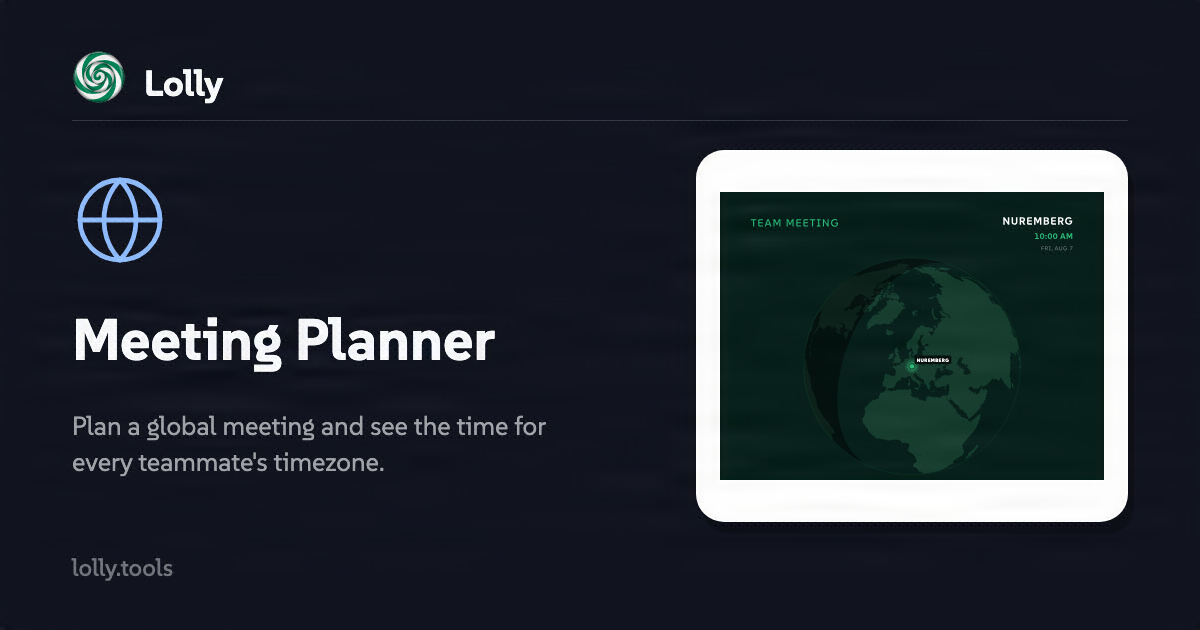
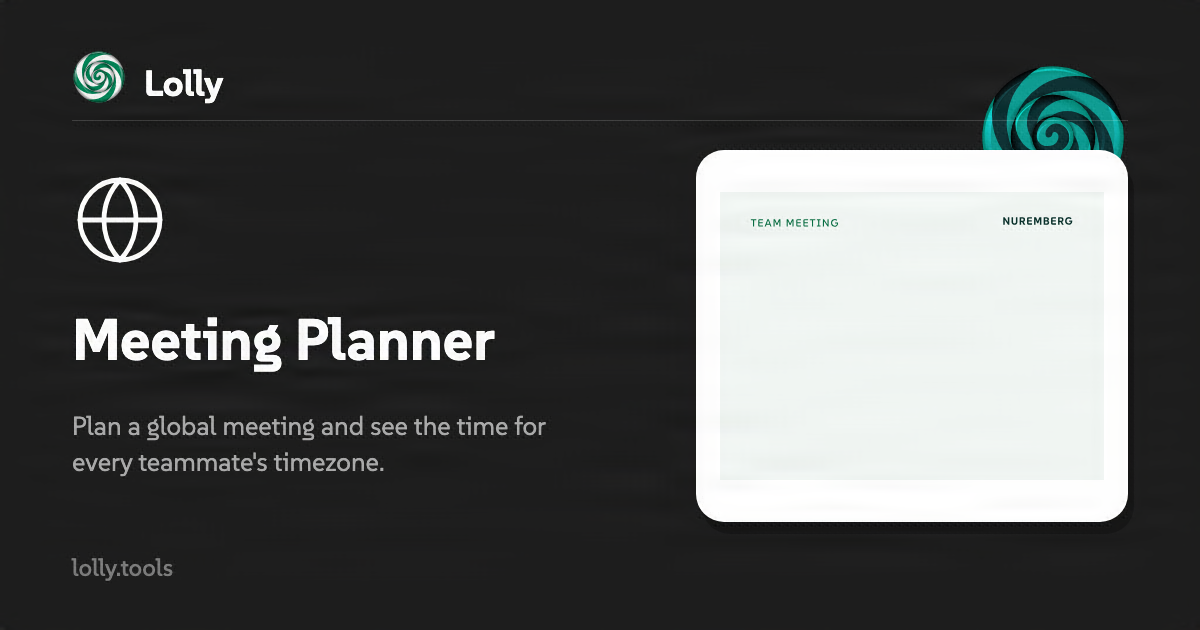
Components library for outside developers: reference blocks (import, classes, markup, tokens, copy), reader copy, live Design-workspace and slider specimens; colour field opens the Colour Lab in OKLCH while HSL is the everyday default; negative letter-spacing removed from the chrome sheets; five SUS

diff --git a/tests/tauri-security.test.ts b/tests/tauri-security.test.ts
@@ -10,24 +10,32 @@ function json(path: string): Record<string, unknown> {
   return JSON.parse(readFileSync(new URL(path, ROOT), 'utf8')) as Record<string, unknown>;
 }
 
-test('packaged Tauri shells enforce a non-null CSP with IPC and deny-by-default directives', () => {
+test('packaged Tauri shells enforce a non-null CSP with IPC and deny-by-default directives', async () => {
+  // The policy is a <meta> tag written into the built index.html by
+  // shells/tauri-shared/vite-csp.mjs, NOT tauri.conf.json's app.security.csp: with
+  // that key set, Tauri's codegen re-serialises every .html asset - the signed tool
+  // templates included - and no tool loads under a release build's verified-only
+  // trust mode (tests/tauri-csp.test.ts pins the config side). frame-ancestors is
+  // absent on purpose: a <meta> policy cannot carry it and a WebView has no ancestor.
+  const { TAURI_CSP } = await import('../shells/tauri-shared/vite-csp.mjs') as { TAURI_CSP: string };
+  assert.equal(typeof TAURI_CSP, 'string', 'the shells share one packaged CSP');
+  for (const source of [
+    "default-src 'self'",
+    'connect-src',
+    'ipc:',
+    'http://ipc.localhost',
+    "object-src 'none'",
+    "base-uri 'none'",
+    "form-action 'none'",
+  ]) {
+    assert.ok(TAURI_CSP.includes(source), `packaged CSP contains ${source}`);
+  }
+  assert.doesNotMatch(TAURI_CSP, /\shttp:(?:\s|;)/, 'packaged CSP does not allow arbitrary cleartext HTTP');
   for (const shell of shells) {
     const conf = json(`shells/${shell}/src-tauri/tauri.conf.json`);
-    const security = (conf.app as { security: { csp: string; devCsp: string } }).security;
-    assert.equal(typeof security.csp, 'string', `${shell} has a packaged CSP`);
-    for (const source of [
-      "default-src 'self'",
-      'connect-src',
-      'ipc:',
-      'http://ipc.localhost',
-      "object-src 'none'",
-      "base-uri 'none'",
-      "frame-ancestors 'none'",
-    ]) {
-      assert.ok(security.csp.includes(source), `${shell} CSP contains ${source}`);
-    }
-    assert.doesNotMatch(security.csp, /\shttp:(?:\s|;)/, `${shell} packaged CSP does not allow arbitrary cleartext HTTP`);
-    assert.equal(typeof security.devCsp, 'string', `${shell} declares its broader development CSP explicitly`);
+    const security = (conf.app as { security: { csp: unknown; devCsp: unknown } }).security;
+    assert.equal(security.csp ?? null, null, `${shell} leaves app.security.csp null so codegen serves every asset byte-exact`);
+    assert.equal(security.devCsp ?? null, null, `${shell} leaves app.security.devCsp null for the same reason`);
   }
 });
 

diff --git a/tests/instance-pack.test.ts b/tests/instance-pack.test.ts
@@ -77,7 +77,9 @@ test('the suse pack builds clean: exclusions hold, fonts/tools/envelope complete
     // A FLOOR, not a pin: the pack's own tool set shrinks whenever a SUSE tool
     // graduates into the brand-agnostic community pack, and that is a good move,
     // not a regression. What must never happen is the pack shipping a handful.
-    assert.ok(toolsPart.tools.length >= 15, `expected ≥15 suse tools, got ${toolsPart.tools.length}`);
+    // 13 since 2026-09-06: battlecards, pricing-table, meeting-planner, org-chart and
+    // work-avatar left for the community pack (they carry no SUSE-only content).
+    assert.ok(toolsPart.tools.length >= 13, `expected ≥13 suse tools, got ${toolsPart.tools.length}`);
     for (const t of toolsPart.tools) {
       assert.ok(files[`tools/${t.id}/tool.json`], `tool ${t.id} shipped without its manifest`);
     }
@@ -125,8 +127,17 @@ test('builder format constants match the brand-transfer reader (drift guard)', (
     assert.ok(m, `${name} not found`);
     return m![1]!.trim();
   };
-  for (const name of ['BRAND_FORMAT', 'BRAND_FORMAT_VERSION', 'BRAND_READER_VERSION']) {
+  for (const name of ['BRAND_FORMAT', 'BRAND_FORMAT_VERSION']) {
     assert.equal(grab(script, `const ${name}`), grab(reader, `export const ${name}`),
       `${name} drifted between scripts/build-instance-pack.ts and brand-transfer.ts`);
   }
+  // The builder's BRAND_READER_VERSION is the MIN reader a pack it writes requires;
+  // the app's is the newest format it can read. They part ways whenever the reader
+  // learns a format the pack builder does not emit (reader 2 imports format-4
+  // collections; instance packs stay readable by reader 1), so the guard is that a
+  // pack never demands a reader newer than the app ships.
+  const needs = Number(grab(script, 'const BRAND_READER_VERSION'));
+  const reads = Number(grab(reader, 'export const BRAND_READER_VERSION'));
+  assert.ok(Number.isInteger(needs) && Number.isInteger(reads), 'reader versions are integers');
+  assert.ok(needs <= reads, `a pack would demand reader ${needs} but the app reads up to ${reads}`);
 });

diff --git a/tests/native-file-associations.test.ts b/tests/native-file-associations.test.ts
@@ -312,7 +312,12 @@ test('Android VIEW documents and iOS opened files reach the universal importer i
   assert.match(iosPlist, /<key>CFBundleTypeRole<\/key>\s*<string>Editor<\/string>/);
   assert.match(iosPlist, /<key>LSHandlerRank<\/key>\s*<string>Owner<\/string>/);
   assert.match(iosPlist, /<string>tools\.lolly\.pack<\/string>/);
-  assert.match(iosPlist, /<string>Document Lolly can open<\/string>[\s\S]*?<string>Alternate<\/string>/);
+  // `tauri ios build` regenerates this plist from tauri.conf.json's fileAssociations:
+  // one CFBundleDocumentTypes entry per format, each an Alternate-rank handler, with
+  // the Lolly bundle alone as Owner. The old hand-kept "Document Lolly can open"
+  // umbrella entry only survives in project.yml, checked below.
+  assert.match(iosPlist, /<string>Penpot project<\/string>[\s\S]*?<string>Alternate<\/string>/);
+  assert.equal((iosPlist.match(/<string>Owner<\/string>/g) ?? []).length, 1, 'exactly one Owner-rank type: the Lolly bundle');
 
   const appleProject = readFileSync(path.join(MOBILE, 'src-tauri/gen/apple/project.yml'), 'utf8');
   assert.match(appleProject, /CFBundleTypeExtensions: \[lolly\]/);

diff --git a/tests/recording-captions.test.ts b/tests/recording-captions.test.ts
@@ -305,9 +305,9 @@ test('every wired tool still mounts and renders - defaults and each example', {
 // wire the declaration in the same edit.
 
 test('voice-recorder has no asset input for its take, so it declares no transcribe', {
-  skip: HAS_SUSE ? false : 'suse pack not mounted',
+  skip: HAS_COMMUNITY ? false : 'community pack not mounted',
 }, async () => {
-  const tool = await load('voice-recorder', SUSE, suseFile);
+  const tool = await load('voice-recorder', COMMUNITY, communityFile);
   assert.equal(tool.manifest.render.transcribe, undefined);
   const assets = (tool.manifest.inputs ?? []).filter((i) => i.type === 'asset');
   assert.deepEqual(assets, [],

diff --git a/scripts/build-app-icons.ts b/scripts/build-app-icons.ts
@@ -170,6 +170,8 @@ async function main(): Promise<void> {
   // ── Serve the signed SVG itself - a byte copy, so its C2PA + RDF provenance travels. ──
   copyFileSync(SOURCE, resolve(ROOT, 'shells/web/public/icon.svg'));
   console.log('✓ shells/web/public/icon.svg (signed source, verbatim copy)');
+  // The component library uses the primary mark as its profile-independent artwork.
+  if (existsSync(PRIMARY)) copyFileSync(PRIMARY, resolve(ROOT, 'shells/web/public/icon-primary.svg'));
 
   // ── Web PWA icons + apple-touch. ──
   const webIcons = resolve(ROOT, 'shells/web/public/icons');
